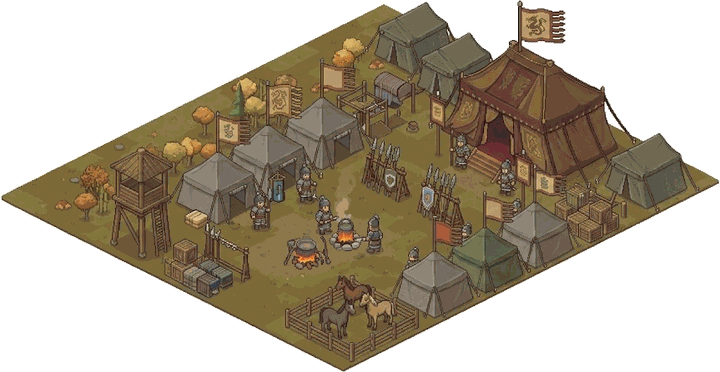
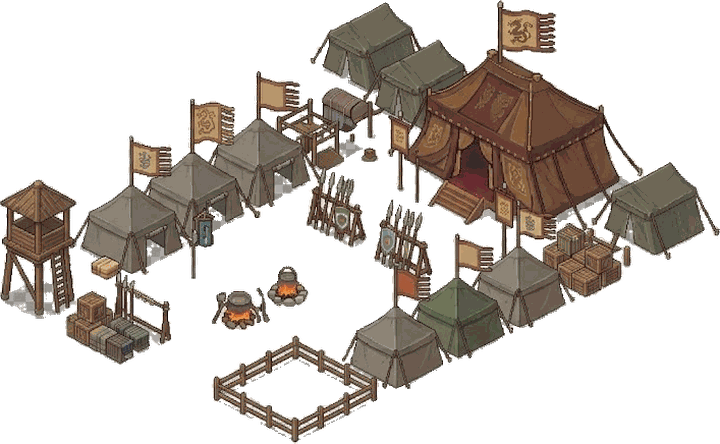
Campamento: solo estructuras, sin personas/animales ni suelo propio
Reemplaza el sprite del campamento por la versión de la ilustración SOLO con
estructuras (tiendas, tienda de mando, torre, cajas, panoplias, estandartes,
hoguera, corral) sobre fondo transparente. La imagen traía el tablero de
transparencia incrustado (gris neutro 255/198): se elimina por máscara de color
neutro-claro (las estructuras son de color/oscuras, no se tocan) + limpieza de
franja. Ya NO trae suelo/hierba propia: se asienta directamente sobre el suelo
de la finca.

- bld-campamento-0..3.png regenerados (estructuras, transparente, ~83 KB c/u).
- iso-sprites-extra.js: h del sprite 372→444.

Verificado en render iso: el campamento se apoya limpio en el suelo, sin parcela.

diff --git a/assets/js/iso-sprites-extra.js b/assets/js/iso-sprites-extra.js
@@ -8,6 +8,6 @@
   window.ISO_SPRITES_META = window.ISO_SPRITES_META || {};
   // Campamento militar (8×10): vista fija a partir de la ilustración. Mismo sprite
   // para las 4 rotaciones (no rota de verdad). Anclaje (ox,oy) afinado al footprint.
-  const campamento = { ox: 396, oy: 79, w: 720, h: 372 };
+  const campamento = { ox: 396, oy: 79, w: 720, h: 444 };
   for (let r = 0; r < 4; r++) window.ISO_SPRITES_META['bld-campamento-' + r] = Object.assign({}, campamento);
 })();
